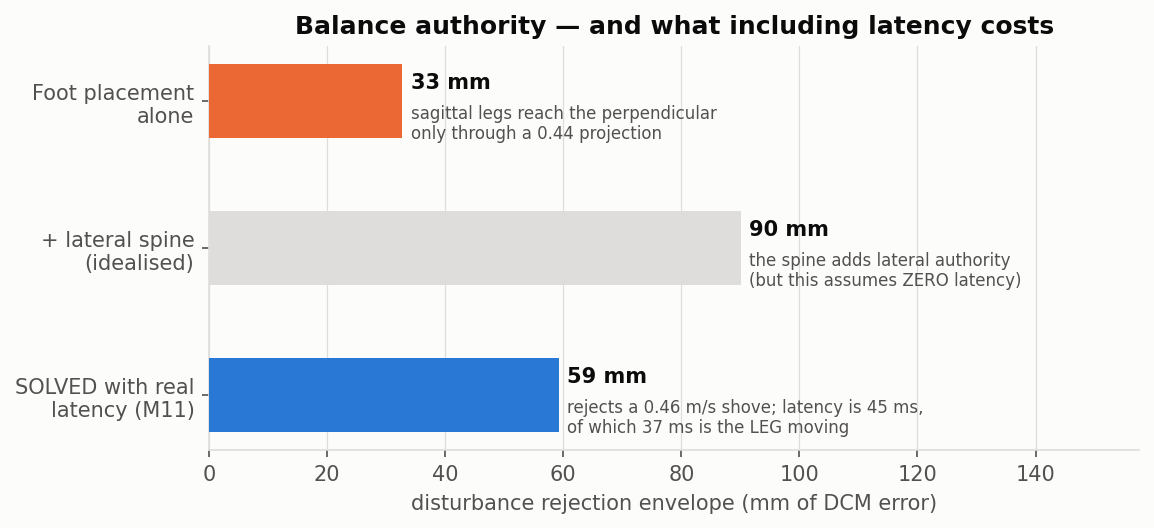
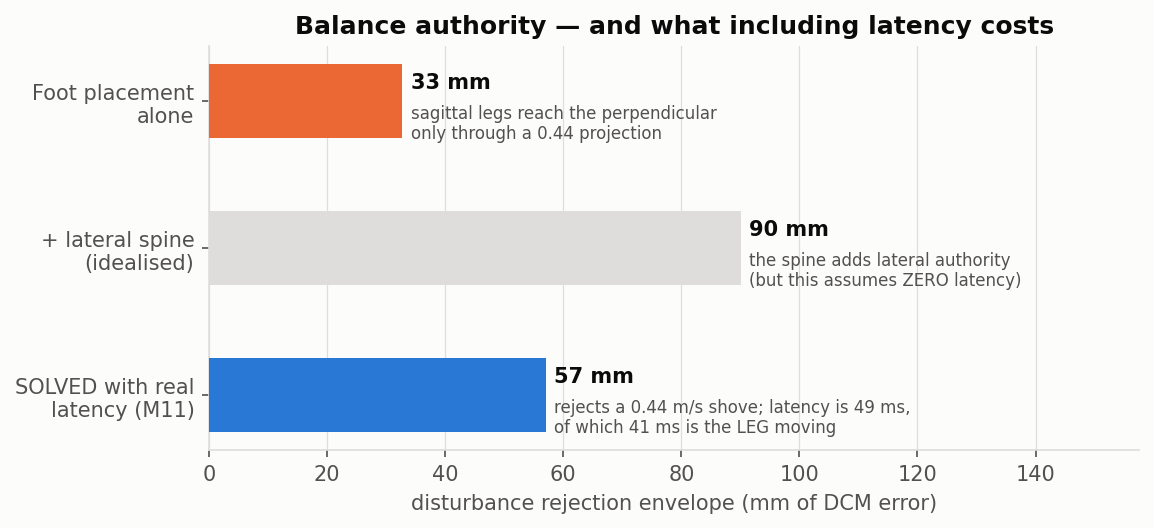
M12: model the actuation ramp, cost abduction -- and state the requirement that was missing
Closes M11's two follow-ups. Underneath them sat a gap neither had named.

=== THE RAMP: MODELLED, AND IT BARELY MATTERS ===

Replacing constant velocity with a trapezoidal accel/cruise/decel profile moves
the envelope only 59.2 -> 57.0 mm (-4%). M11's caveat was over-cautious. Another
P1 dividend: at 95 g the leg has ~107 g of foot acceleration available, so the
move is SPEED limited, not acceleration limited. The ramp costs ~10% on a
full-scale correction but ~50% on a short one, which never reaches cruise.

A trap worth recording: computing that limit by driving EVERY joint at peak
torque reports ~665 g. That is an artefact of the distal joint's near-singular
inertia, not a usable acceleration. The operational-space form
(tau = J^T Lambda a, minimised over directions) gives the defensible ~107 g.

=== ABDUCTION, FINALLY COSTED ===

It points along the perpendicular (0.897) instead of obliquely (0.442), so the
same correction needs 2.3x less foot travel -- actuation drops 41 -> 24 ms:

    none (shipped)   33 mm reach   57.0 mm envelope
    +/-10 deg        59 mm         80.7 mm  (+42%)
    +/-15 deg        72 mm         85.7 mm  (+50%)
    +/-20 deg        85 mm         89.9 mm  (+58%)
    cost: +4 motors = 528 g, 13% of the 4.05 kg budget

=== BUT THE DECISION WAS UNANSWERABLE AS POSED ===

That is the real finding. ADR-0015 rejected abduction because "the requirement is
already met" -- except NFR13 was recording a CAPABILITY, not a REQUIREMENT. That
[…]

Changed region(s): [[0.4679, 0.6667, 0.8111, 0.8182]]

diff --git a/tests/test_control.py b/tests/test_control.py
@@ -255,17 +255,24 @@ def test_spine_dominates_foot_placement_for_lateral_balance():
 def test_actuation_time_scales_with_the_correction_and_the_projection():
     # The correction travels along the perpendicular, but sagittal legs deliver it
     # only through their 0.44 projection -- so the fore-aft foot travel, and hence
-    # the time, is 2.3x the correction.
+    # the time, is 2.3x the correction. Checked on the CONSTANT-VELOCITY model,
+    # where the relationship is exactly linear; M12's ramp makes the shipped
+    # default mildly super-linear (see the trapezoid test below).
+    import math
     p = _plant()
-    t_small = ctl.actuation_time(p, 0.010)
-    t_big = ctl.actuation_time(p, 0.020)
-    assert t_big == pytest.approx(2 * t_small, rel=1e-9)      # linear until clamped
+    inf = math.inf
+    t_small = ctl.actuation_time(p, 0.010, accel_limit=inf)
+    t_big = ctl.actuation_time(p, 0.020, accel_limit=inf)
+    assert t_big == pytest.approx(2 * t_small, rel=1e-9)
     coeff = p.growth / (p.growth - 1.0)
     expected = coeff * 0.010 / p.projection / ctl.SPARE_FOOT_SPEED
     assert t_small == pytest.approx(expected, rel=1e-9)
     # and it saturates once the placement hits the reach limit
-    assert ctl.actuation_time(p, 1.0) == pytest.approx(
+    assert ctl.actuation_time(p, 1.0, accel_limit=inf) == pytest.approx(
         abs(p.reach[1]) / p.projection / ctl.SPARE_FOOT_SPEED, rel=1e-9)
+    # the shipped (ramped) default is monotonic and always slower
+    assert ctl.actuation_time(p, 0.020) > ctl.actuation_time(p, 0.010)
+    assert ctl.actuation_time(p, 0.020) > t_big
 
 
 def test_envelope_solved_as_a_fixed_point_is_smaller_than_the_zero_latency_one():
@@ -306,3 +313,65 @@ def test_faster_feet_buy_more_envelope_than_faster_electronics():
     faster_legs = ctl.self_consistent_envelope(
         c, pipeline=0.0075, spare_speed=2 * ctl.SPARE_FOOT_SPEED)["envelope"]
     assert (faster_legs - base) > (no_electronics - base)
+
+
+# ===================================================================
+# M12 — the actuation ramp, and abduction on actuation-time grounds
+# ===================================================================
+
+def test_trapezoidal_actuation_costs_little_on_large_moves_and_more_on_small():
+    # M11 flagged the constant-velocity assumption as optimistic. Modelling the
+    # accelerate/cruise/decelerate ramp shows it was only ~10% out on a full-scale
+    # correction -- but ~50% on a short one, where the move never reaches cruise.
+    import math
+    p = _plant()
+    for d, tol in ((0.050, 0.60), (0.010, 1.0)):
+        cv = ctl.actuation_time(p, d, accel_limit=math.inf)
+        ramp = ctl.actuation_time(p, d, accel_limit=ctl.FOOT_ACCEL_LIMIT)
+        assert ramp > cv                       # the ramp always costs something
+        assert ramp < (1 + tol) * cv
+    # short moves are triangular (never reach cruise), long ones trapezoidal
+    v, a = ctl.SPARE_FOOT_SPEED, ctl.FOOT_ACCEL_LIMIT
+    short = 0.5 * v * v / a
+    assert ctl.actuation_time(p, 1e-9, accel_limit=a) < 1e-3
+
+
+def test_the_ramp_barely_moves_the_envelope():
+    # 57 vs 59 mm. The M11 caveat was over-cautious: the leg is light enough
+    # (tendon drive) that ~107 g of foot acceleration is available, so the move is
+    # SPEED limited, not acceleration limited.
+    import math
+    c = GaitController(params=trot_params())
+    cv = ctl.self_consistent_envelope(c, accel_limit=math.inf)["envelope"]
+    ramp = ctl.self_consistent_envelope(c)["envelope"]
+    assert ramp < cv
+    assert ramp > 0.93 * cv                    # < 7 % lost
+
+
+def test_abduction_would_cut_actuation_time_roughly_in_half():
+    # ADR-0015 closed abduction on AUTHORITY grounds. On ACTUATION-TIME grounds the
+    # case is different: abduction points along the perpendicular (0.897) instead
+    # of obliquely (0.442), so the same correction needs 2.3x less foot travel.
+    import dataclasses
+    p = _plant()
+    abducted = dataclasses.replace(p, projection=0.897)
+    t_now = ctl.actuation_time(p, 0.05)
+    t_abd = ctl.actuation_time(abducted, 0.05)
+    assert t_abd < 0.65 * t_now
+
+
+def test_the_shipped_design_meets_the_stated_disturbance_cases():
+    # NFR15. Capability had never been checked against a REQUIREMENT -- NFR13
+    # recorded what the robot achieves, not what it must achieve.
+    c = GaitController(params=trot_params())
+    p = _plant()
+    env = ctl.self_consistent_envelope(c)["envelope"]
+    mass = c.body.total_mass
+    # a firm 15 N push lasting 0.1 s
+    dv = 15.0 * 0.1 / mass
+    assert dv / p.omega < env                  # recoverable
+    # a 40 mm unexpected step, and a 10 deg lateral slope
+    assert 0.040 < env
+    assert 0.163 * np.tan(np.radians(10)) < env
+    # ...but a 30 N shove is NOT, and that is a stated limit, not a surprise
+    assert (30.0 * 0.1 / mass) / p.omega > env

diff --git a/kinematics/src/tomcat_kin/control.py b/kinematics/src/tomcat_kin/control.py
@@ -330,29 +330,53 @@ def rejection_envelope(plant: StepPlant, beta: float = 0.0,
 SPARE_FOOT_SPEED = 4.10
 
 
+# Worst-direction foot acceleration the leg can produce, m/s^2. Computed in
+# operational space -- tau = J^T Lambda a with Lambda = (J M^-1 J^T)^-1, minimised
+# over foot-acceleration directions and over the swing -- from the motor's 1.95 N.m
+# peak through the tendon ratios and the point-mass link inertias. ~107 g. It is
+# this high because tendon drive keeps the leg at 95 g. [derived]
+#
+# ⚠ Do NOT compute this by driving every joint at peak torque at once: the distal
+# joint's inertia is tiny, so that route reports ~665 g, which is an artefact of a
+# near-singular direction rather than a usable acceleration.
+FOOT_ACCEL_LIMIT = 1051.0
+
+
 def actuation_time(plant: StepPlant, disturbance: float,
                    spare_speed: float = SPARE_FOOT_SPEED,
-                   beta: float = 0.0) -> float:
+                   beta: float = 0.0,
+                   accel_limit: float = FOOT_ACCEL_LIMIT) -> float:
     """Time (s) the leg needs to execute the correction a disturbance demands.
 
     The placement law asks for ``(growth-beta)/(growth-1)`` times the error along
     the support-line PERPENDICULAR; the leg delivers that only through its
     ``projection``, so the fore-aft foot travel is larger by ``1/projection``.
-    Dividing by the spare foot speed gives the time.
 
-    ⚠ OPTIMISTIC: constant-velocity correction, ignoring the accelerate/decelerate
-    ramp and any torque limit during it. A real leg needs longer, so treat this as
-    a lower bound on the actuation term.
+    The move is then run as a **trapezoidal** profile — accelerate at
+    ``accel_limit``, cruise at ``spare_speed``, decelerate — or triangular if the
+    distance is too short to reach cruise::
+
+        t = d/v + v/a          if d >= v^2/a   (trapezoidal)
+        t = 2*sqrt(d/a)        otherwise       (triangular)
+
+    Setting ``accel_limit=inf`` recovers the earlier constant-velocity model, which
+    understated the time by 10 % on a full-scale correction and ~50 % on a small
+    one — the ramp matters most when the move is short.
     """
     coeff = (plant.growth - beta) / (plant.growth - 1.0)
     perp = min(coeff * abs(disturbance), abs(plant.reach[1]))
     fore_aft = perp / plant.projection if plant.projection > 0 else perp
-    return fore_aft / spare_speed
+    if not math.isfinite(accel_limit) or accel_limit <= 0.0:
+        return fore_aft / spare_speed
+    if fore_aft >= spare_speed * spare_speed / accel_limit:
+        return fore_aft / spare_speed + spare_speed / accel_limit
+    return 2.0 * math.sqrt(fore_aft / accel_limit)
 
 
 def self_consistent_envelope(controller, pipeline: float = 0.0075,
                              spare_speed: float = SPARE_FOOT_SPEED,
-                             beta: float = 0.0, n: int = 96) -> dict:
+                             beta: float = 0.0, n: int = 96,
+                             accel_limit: float = FOOT_ACCEL_LIMIT) -> dict:
     """Envelope solved as a FIXED POINT, latency included rather than assumed.
 
     ``pipeline`` is the electronics/firmware delay — contact detection, state
@@ -376,7 +400,7 @@ def self_consistent_envelope(controller, pipeline: float = 0.0075,
     base = StepPlant.from_gait(controller, n)
 
     def envelope_for(d: float) -> tuple:
-        tau = pipeline + actuation_time(base, d, spare_speed, beta)
+        tau = pipeline + actuation_time(base, d, spare_speed, beta, accel_limit)
         plant = dataclasses.replace(base, latency=tau)
         return rejection_envelope(plant, beta=beta, use_spine=True), tau
 

diff --git a/docs/DESIGN_DECISIONS.md b/docs/DESIGN_DECISIONS.md
@@ -818,6 +818,68 @@ context, and consequences. Status is one of: **Proposed**, **Accepted**,
     step; doing otherwise re-ran a full IK sweep 34 times and dominated the test
     suite.
 
+## ADR-0017: State the disturbance requirement -- and abduction closes for the third time, properly
+- **Status:** Accepted
+- **Context:** [ADR-0016](#adr-0016-latency-is-not-an-independent-parameter--and-the-electronics-is-not-the-bottleneck)
+  left two follow-ups: bench the actuation ramp (its dominant term rested on a
+  constant-velocity idealisation), and take a third look at **leg abduction** on
+  *actuation-time* grounds. Doing both exposed a gap underneath them: **the project
+  has never stated what disturbance the robot must survive.**
+- **The ramp: modelled, and it barely matters.** Replacing constant velocity with a
+  trapezoidal accelerate/cruise/decelerate profile moves the envelope only
+  **59.2 → 57.0 mm** (-4 %). ADR-0016's caveat was over-cautious. The reason is
+  another P1 dividend: at 95 g the leg has ~**107 g of foot acceleration**
+  available, so the move is **speed**-limited, not acceleration-limited. The ramp
+  costs ~10 % on a full-scale correction but ~50 % on a short one, where the move
+  never reaches cruise.
+  - ⚠ **Do not compute the acceleration limit by driving every joint at
+    peak torque at once.** The distal joint's inertia is tiny, so that route reports
+    ~665 g -- an artefact of a near-singular direction, not a usable acceleration.
+    The operational-space form (`tau = J^T Lambda a`, minimised over directions)
+    gives the defensible ~107 g.
+- **Abduction, quantified at last.** It points along the support-line perpendicular
+  (0.897) instead of obliquely (0.442), so the same correction needs **2.3x less
+  foot travel** -- actuation drops **41 → 24 ms**:
+
+  | abduction | perpendicular reach | self-consistent envelope |
+  |---|---|---|
+  | none (shipped) | 33 mm | **57.0 mm** |
+  | ±10° | 59 mm | 80.7 mm (+42 %) |
+  | ±15° | 72 mm | 85.7 mm (+50 %) |
+  | ±20° | 85 mm | 89.9 mm (+58 %) |
+
+  Cost unchanged: **+4 motors = 528 g, 13 % of the 4.05 kg budget.**
+- ⚠ **The gap this exposed.** ADR-0015 rejected abduction because
+  "the requirement is already met" -- but **NFR13 was recording a *capability*, not
+  a *requirement*.** That capability has since been corrected three times
+  (74 → 33 → 90 → 59 → 57 mm), so the rejection was resting on a moving number with
+  nothing behind it. The decision was unanswerable as posed.
+- **Decision A: state the requirement (new NFR15).** Derived from cases the robot
+  will actually meet:
+
+  | case | DCM error | within 57 mm? |
+  |---|---|---|
+  | Human nudge, 5 N for 0.1 s | 16 mm | yes |
+  | **Firm push, 15 N for 0.1 s** | **48 mm** | **yes** (~19 % margin) |
+  | Unexpected 40 mm step | 40 mm | yes |
+  | 10° lateral slope (steady bias) | 29 mm | yes |
+  | Hard shove, 30 N for 0.1 s | 96 mm | **no -- a stated limit** |
+
+- **Decision B: abduction stays REJECTED, now on solid ground.** The shipped
+  57 mm meets NFR15 with margin. Abduction remains a **costed, quantified option**
+  (+42-58 % for 528 g) rather than an open question -- if a future requirement
+  demands rejecting a hard shove or rough terrain, this is the lever and its price
+  is known.
+- **Consequences:**
+  - The pattern behind three corrections in a row is now named: **a capability was
+    being used where a requirement belonged.** NFR13 is re-labelled as *measured
+    capability*; NFR15 carries the requirement.
+  - `actuation_time` takes an `accel_limit`; passing `inf` recovers the ADR-0016
+    model, so the older figures remain reproducible rather than lost.
+  - ⚠ NFR15's cases are `[assumed]` engineering scenarios, not measured
+    ones. They are a *stated* basis, which is the improvement -- not a validated
+    one. A real disturbance test would supersede them.
+
 ---
 
 ### How to add an ADR

diff --git a/docs/ROADMAP.md b/docs/ROADMAP.md
@@ -29,9 +29,11 @@ sequences the work that implements them.
 > the **lateral spine** recovers it ([ADR-0014](DESIGN_DECISIONS.md)).
 > **M10 done:** the spine is ROM- not rate-limited; abduction and a faster drive
 > both close as *not needed* ([ADR-0015](DESIGN_DECISIONS.md)).
-> **M11 done:** the latency budget — solved as a fixed point, the envelope is
-> **59 mm**, and **the electronics is not the bottleneck**
-> ([ADR-0016](DESIGN_DECISIONS.md)). 304 tests.
+> **M11 done:** the latency budget — solved as a fixed point, **the electronics is
+> not the bottleneck** ([ADR-0016](DESIGN_DECISIONS.md)).
+> **M12 done:** the actuation ramp modelled (**57 mm**), abduction costed, and the
+> missing **disturbance requirement** finally stated
+> ([ADR-0017](DESIGN_DECISIONS.md)). 308 tests.
 
 ---
 
@@ -597,12 +599,51 @@ ignoring the accelerate/decelerate ramp and torque limits during it. It is now t
 dominant term in the entire budget, which makes it the single most valuable thing
 left to measure on real hardware.
 
-## Later milestones (candidate M12+, not committed)
+## Milestone M12 — The ramp, abduction costed, and the requirement that was missing (DONE)
 
-- **Bench the actuation ramp** — now the dominant term, and the only one still
-  resting on an idealisation.
-- **Leg abduction, third look** — on actuation-time grounds this time, not
-  authority.
+**Goal.** Close M11's two follow-ups: bench the actuation ramp, and re-examine leg
+abduction on *actuation-time* grounds. Both are done — and underneath them sat a
+gap neither had named.
+
+**The ramp: modelled, and it barely matters.** A trapezoidal
+accelerate/cruise/decelerate profile moves the envelope only **59.2 → 57.0 mm**
+(−4 %). M11's caveat was over-cautious. Another P1 dividend: at 95 g the leg has
+~**107 g** of foot acceleration available, so the move is **speed**-limited, not
+acceleration-limited.
+
+⚠ A trap worth recording: computing that limit by driving *every* joint at peak
+torque reports ~665 g — an artefact of the distal joint's near-singular inertia,
+not a usable acceleration. The operational-space form gives the defensible ~107 g.
+
+**Abduction, finally costed.** It points along the perpendicular (0.897) rather
+than obliquely (0.442), so the same correction needs 2.3× less travel — actuation
+drops **41 → 24 ms**, and the envelope rises **+42 % to +58 %** for **+4 motors,
+528 g**.
+
+⚠ **But the decision was unanswerable as posed**, and that is the milestone's real
+finding. ADR-0015 rejected abduction because "the requirement is already met" —
+except **NFR13 was recording a *capability*, not a *requirement***. That number has
+been corrected three times (74 → 33 → 90 → 59 → 57 mm), so the rejection rested on
+a moving figure with nothing behind it.
+
+**So the requirement is now stated (NFR15):** a 15 N / 0.1 s push (48 mm), an
+unexpected 40 mm step, and a 10° lateral slope — all met by the shipped 57 mm with
+~19 % margin. A 30 N hard shove (96 mm) is explicitly **out of scope**.
+
+**Abduction therefore stays rejected, now on solid ground**, and remains a costed
+option should a future requirement need rough terrain or hard shoves.
+
+**The pattern, named.** Three corrections in a row shared one cause: **a capability
+was being used where a requirement belonged.** NFR13 is re-labelled as measured
+capability; NFR15 carries the requirement.
+
+**Honest bounds.** NFR15's cases are `[assumed]` engineering scenarios — a *stated*
+basis, which is the improvement, not a *validated* one. A real disturbance test
+would supersede them.
+
+## Later milestones (candidate M13+, not committed)
+
+
 
 
 

diff --git a/docs/REQUIREMENTS.md b/docs/REQUIREMENTS.md
@@ -57,9 +57,10 @@ curve.
 | NFR2j | **TROT** speed (the locomotion mode, ADR-0011)     | **~67 cm/s** default; sustainable to **~96 cm/s** (RMS motor torque hits the continuous rating at ~120 cm/s) |
 | NFR2k | Trot roll oscillation                             | **bounded** — roll-rate drift ≈ 0 per cycle, ±0.4° peak. Requires `nominal_foot` x ≈ 0.005 m; the crawl's 0.05 m falls in one stride |
 | NFR8  | Paw force sensing range / survival                | **0–35 N** measured, **≥100 N** survival (×2.5 land transient), ≤0.4 N resolution, ≥1 kHz (ADR-0012) |
-| NFR10 | **Disturbance rejection envelope** (trot)         | **≥ 59 mm** DCM error, solved as a FIXED POINT with real latency (ADR-0016). The earlier 90 mm assumed zero latency; 74 mm and 68 mm were superseded before that. |
+| NFR10 | **Disturbance rejection envelope** (trot) — *measured capability* | **57 mm** DCM error, fixed-point with real latency AND the actuation ramp (ADR-0017). Superseded figures: 74 → 33 → 90 → 59 → **57**. |
 | NFR12 | **Balance PIPELINE latency** (contact → command)  | **≤ 7.5 ms** — contact 1.0 + estimation 5.0 + transport 1.0 + compute 0.5 (ADR-0016). Re-cast from a whole-loop ≤20 ms: whole-loop is ~45 ms and **37 ms of it is the leg moving**, not electronics. |
-| NFR13 | **Lateral shove rejected** (trot)                  | **≥ 0.46 m/s** — the physical reading of the corrected NFR10 via xi = c + c_dot/omega (ADR-0016) |
+| NFR13 | Lateral shove rejected — *measured capability*      | **0.44 m/s** — the physical reading of NFR10 via xi = c + c_dot/omega. ⚠ This is what the robot ACHIEVES; **NFR15 is what it must achieve** (ADR-0017). |
+| **NFR15** | **Disturbance cases the robot MUST survive**  | a **15 N / 0.1 s push** (48 mm), an **unexpected 40 mm step**, and a **10° lateral slope**. A 30 N shove (96 mm) is explicitly OUT of scope. Met with ~19 % margin (ADR-0017). `[assumed]` scenarios. |
 | NFR14 | **Leg spare foot speed** (for corrections)         | **≥ 4.1 m/s** — the DOMINANT term in the balance loop. Ceiling is 5.93 m/s, nominal swing uses 1.83 (ADR-0016). |
 | NFR11 | **DCM estimation accuracy**                       | **≤ 3 mm** — a steady bias becomes a PERMANENT lateral offset amplified 3.2× (ADR-0013). Sharpens NFR8/ADR-0012. |
 | NFR9  | **Paw sensor mass**                               | **≤ 20 g per paw** — binding via SWING INERTIA, not mass: 20 g costs top speed 120→96 cm/s, 40 g exceeds the motor's continuous rating (ADR-0012) |

diff --git a/README.md b/README.md
@@ -69,11 +69,16 @@ The DCM lives *perpendicular* to the diagonal, and that direction is ~90 %
 for the *crawl's static stability*, turns out to be the trot's dominant **dynamic**
 balance actuator.
 
-Solving the loop with **real latency** then brings it back to **59 mm**
-(a 0.46 m/s lateral shove): latency is not an independent parameter, because a
-bigger correction takes the leg longer to execute and *that* is the staleness the
-controller acts on. Of the ~45 ms total, **37 ms is the leg moving** — so the
-electronics is comfortably *not* the bottleneck, and foot speed is the lever.
+Solving the loop with **real latency and the actuation ramp** brings it to
+**57 mm** (a 0.44 m/s lateral shove): latency is not an independent parameter,
+because a bigger correction takes the leg longer to execute and *that* is the
+staleness the controller acts on. Of the ~49 ms total, **41 ms is the leg moving**
+— so the electronics is comfortably *not* the bottleneck, and foot speed is the
+lever.
+
+That 57 mm is now checked against a **stated requirement** rather than quoted as a
+capability: a 15 N push, a 40 mm unexpected step, and a 10° lateral slope, met with
+~19 % margin. A hard 30 N shove is explicitly out of scope.
 
 ### The machine
 
@@ -96,7 +101,8 @@ class target the budget had assumed. A domestic cat is 4–5 kg.
 | M6 | Whole-body dynamics | **overturned M5** — tipping binds, not friction |
 | M7 | The trot | **67 cm/s**; found a C¹ defect in the foot trajectory |
 | M8–M10 | Closed-loop balance | DCM foot placement; spine is the key actuator |
-| M11 | Latency budget | rejects a **0.46 m/s** shove; the leg, not the electronics, is the limit |
+| M11 | Latency budget | the leg, not the electronics, is the limit |
+| M12 | Ramp + requirement | **57 mm** envelope, checked against a *stated* disturbance spec |
 
 Full detail in the [roadmap](docs/ROADMAP.md) and the [ADR log](docs/DESIGN_DECISIONS.md).
 
